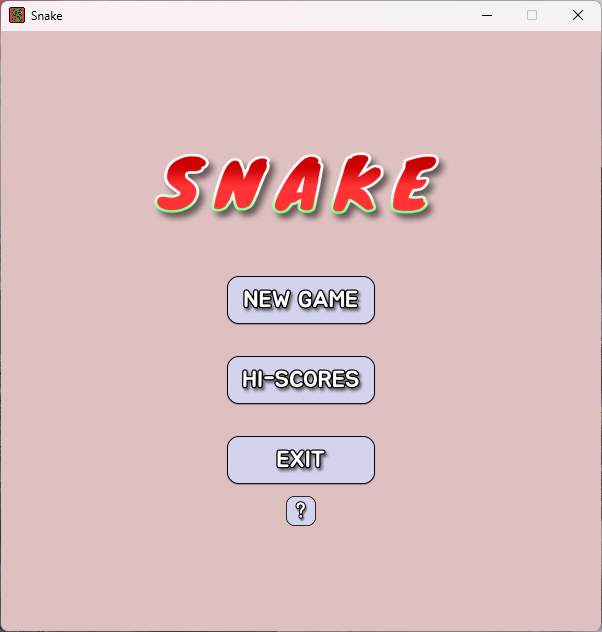
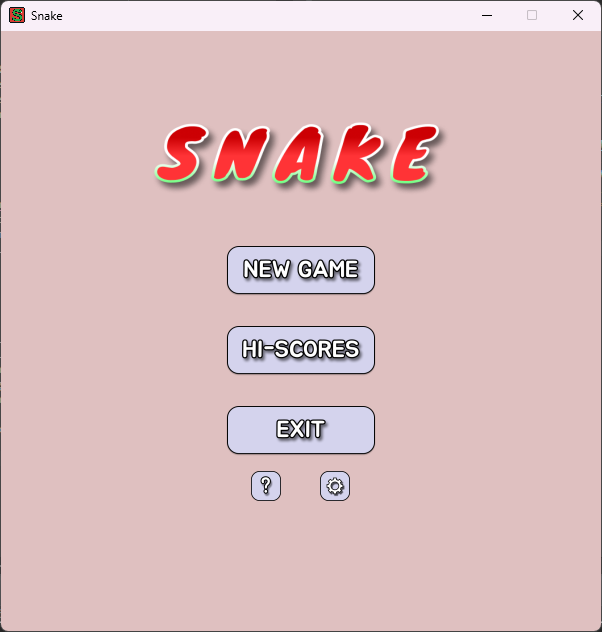
Added settings option

diff --git a/src/snake_game/MainMenuPanel.java b/src/snake_game/MainMenuPanel.java
@@ -2,8 +2,10 @@ package snake_game;
 
 import java.awt.BorderLayout;
 import java.awt.Color;
+import java.awt.FlowLayout;
 import java.awt.Image;
 import java.net.URL;
+
 import javax.swing.BorderFactory;
 import javax.swing.Box;
 import javax.swing.BoxLayout;
@@ -12,6 +14,7 @@ import javax.swing.JButton;
 import javax.swing.JLabel;
 import javax.swing.JOptionPane;
 import javax.swing.JPanel;
+import javax.swing.JSlider;
 import javax.swing.SwingConstants;
 
 /*
@@ -27,22 +30,29 @@ public class MainMenuPanel extends JPanel {
 	private JButton hiScoresBtn;
 	private JButton exitBtn;
 	private JButton helpBtn;
+	private JButton settingsBtn;
+	private JPanel smallBtnPanel;
 	private JPanel btnPanel;
 	private JLabel titleLbl;
-	
+
 	// Other fields
 	private static final long serialVersionUID = -2394769013522953624L;
+	private SnakeGame snakeGame;
 
 	public MainMenuPanel(SnakeGame snakeGame) {
 
 		// init misc fields
 		titleLbl = new JLabel(getScaledIcon("/asset/title.png", 300, 100), SwingConstants.CENTER);
+		smallBtnPanel = new JPanel(new FlowLayout());
+		smallBtnPanel.setOpaque(false);
+		this.snakeGame = snakeGame;
 
 		// init buttons
 		newGameBtn = new JButton();
 		hiScoresBtn = new JButton();
 		exitBtn = new JButton();
 		helpBtn = new JButton();
+		settingsBtn = new JButton();
 		btnPanel = new JPanel();
 		btnPanel.setLayout(new BoxLayout(btnPanel, BoxLayout.Y_AXIS));
 
@@ -67,6 +77,11 @@ public class MainMenuPanel extends JPanel {
 		helpBtn.setPressedIcon(getScaledIcon("/asset/help_pressed.png", 30, 30));
 		configBtn(helpBtn);
 
+		settingsBtn.setIcon(getScaledIcon("/asset/settings.png", 30, 30));
+		settingsBtn.setRolloverIcon(getScaledIcon("/asset/settings_rollover.png", 30, 30));
+		settingsBtn.setPressedIcon(getScaledIcon("/asset/settings_pressed.png", 30, 30));
+		configBtn(settingsBtn);
+
 		// settings for buttonpanel
 		btnPanel.setBorder(BorderFactory.createEmptyBorder(20,20,20,20));
 		btnPanel.setBackground(new Color(223, 192, 192));
@@ -88,15 +103,9 @@ public class MainMenuPanel extends JPanel {
 
 		exitBtn.addActionListener(e -> snakeGame.closeGame());
 
-		helpBtn.addActionListener(e -> {
-			JOptionPane.showMessageDialog(this, "Up: W/Up Arrow\n"
-					+ "Left: A/Left Arrow\n"
-					+ "Right: D/Right Arrow\n"
-					+ "Down: S/Down Arrow\n"
-					+ "Autoplay (greedy algorithm): P\n", 
-					"Controls", 
-					JOptionPane.INFORMATION_MESSAGE);
-		});
+		helpBtn.addActionListener(e -> showHelp());
+
+		settingsBtn.addActionListener(e -> showSettings());
 
 		// add buttons to button panel
 		btnPanel.add(Box.createVerticalGlue());
@@ -107,7 +116,12 @@ public class MainMenuPanel extends JPanel {
 		btnPanel.add(hiScoresBtn);
 		btnPanel.add(Box.createVerticalStrut(20));
 		btnPanel.add(exitBtn);
-		btnPanel.add(helpBtn);
+
+		smallBtnPanel.add(helpBtn);
+		smallBtnPanel.add(settingsBtn);
+
+		btnPanel.add(smallBtnPanel);
+
 		btnPanel.add(Box.createVerticalGlue());
 
 		// center assets
@@ -116,10 +130,75 @@ public class MainMenuPanel extends JPanel {
 		hiScoresBtn.setAlignmentX(CENTER_ALIGNMENT);
 		exitBtn.setAlignmentX(CENTER_ALIGNMENT);
 		helpBtn.setAlignmentX(CENTER_ALIGNMENT);
+		settingsBtn.setAlignmentX(CENTER_ALIGNMENT);
 
 		// add button panel to main menu panel
 		setLayout(new BorderLayout());
 		add(btnPanel, BorderLayout.CENTER);
+	}
+
+	public void showHelp() {
+		JOptionPane.showMessageDialog(this, "Up: W/Up Arrow\n"
+				+ "Left: A/Left Arrow\n"
+				+ "Right: D/Right Arrow\n"
+				+ "Down: S/Down Arrow\n"
+				+ "Autoplay (greedy algorithm): P\n", 
+				"Controls", 
+				JOptionPane.INFORMATION_MESSAGE);
+	}
+
+	public void showSettings() {
+		
+		// window size
+		JPanel winSize = new JPanel();
+		JSlider winSizeSlider = new JSlider(JSlider.HORIZONTAL, 12, 30, Settings.getCellSize());
+		JLabel winSizeLabel = new JLabel("Window Size:");
+		winSizeSlider.setPaintTicks(true);
+		winSizeSlider.setMajorTickSpacing(3);
+		winSizeSlider.setMinorTickSpacing(1);
+		winSizeSlider.setPaintLabels(true);
+		winSize.add(winSizeLabel);
+		winSize.add(winSizeSlider);
+
+		// snake speed
+		JPanel gameSpd = new JPanel();
+		JSlider gameSpdSlider = new JSlider(JSlider.HORIZONTAL, 12, 25, Const.DEFAULT_FPS);
+		JLabel gameSpdLabel = new JLabel("Game Speed (FPS):");
+		gameSpdSlider.setPaintTicks(true);
+		gameSpdSlider.setMajorTickSpacing(3);
+		gameSpdSlider.setMinorTickSpacing(1);
+		gameSpdSlider.setPaintLabels(true);
+		gameSpd.add(gameSpdLabel);
+		gameSpd.add(gameSpdSlider);
+		
+		// panel to hold both sliders
+		JPanel settingsPanel = new JPanel();
+		settingsPanel.setLayout(new BoxLayout(settingsPanel, BoxLayout.Y_AXIS));
+		settingsPanel.add(Box.createVerticalGlue());
+		settingsPanel.add(winSize);
+		settingsPanel.add(Box.createVerticalStrut(10));
+		settingsPanel.add(gameSpd);
+		settingsPanel.add(Box.createVerticalGlue());
+		
+		// listeners for sliders
+		winSizeSlider.addChangeListener(e -> onWindowSliderChanged(winSizeSlider.getValue()));
+		
+		gameSpdSlider.addChangeListener(e -> onGameSpeedSliderChanged(gameSpdSlider.getValue()));
+		
+		JOptionPane.showMessageDialog(this,
+				settingsPanel,
+				"Settings",
+				JOptionPane.PLAIN_MESSAGE);
+	}
+	
+	public void onGameSpeedSliderChanged(int newSpeed) {
+		System.out.println("Game speed slider value: " + newSpeed);
+		snakeGame.handleGameSpeedChanged(newSpeed);
+	}
+	
+	public void onWindowSliderChanged(int newSize) {
+		System.out.println("Window size slider value: " + newSize);
+		snakeGame.handleResizeWindow(newSize);
 	}
 
 	private ImageIcon getScaledIcon(String path, int x, int y) {

diff --git a/src/snake_game/GamePanel.java b/src/snake_game/GamePanel.java
@@ -1,12 +1,10 @@
 package snake_game;
 
-import static snake_game.Const.CELL_SIZE;
-import static snake_game.Const.DELAY;
+import static snake_game.Const.DEFAULT_DELAY;
 import static snake_game.Const.NUM_COLS;
 import static snake_game.Const.NUM_ROWS;
 import static snake_game.Const.SNAKE_START_COL;
 import static snake_game.Const.SNAKE_START_ROW;
-
 import java.awt.Color;
 import java.awt.Dimension;
 import java.awt.Graphics;
@@ -26,7 +24,6 @@ import java.util.LinkedList;
 import java.util.List;
 import java.util.Map;
 import java.util.Random;
-
 import javax.sound.sampled.AudioInputStream;
 import javax.sound.sampled.AudioSystem;
 import javax.sound.sampled.Clip;
@@ -42,7 +39,7 @@ import javax.swing.Timer;
 
 public class GamePanel extends JPanel {
 
-	// Gaamestate-specific fields
+	// Gamestate-specific fields
 	private Cell[][] gameArea;
 	private boolean isGameOver;
 	private int foodEaten;
@@ -64,6 +61,7 @@ public class GamePanel extends JPanel {
 	private static final long serialVersionUID = -2969235666770895319L;
 	private SnakeGame snakeGame;
 	private Map<String, Integer> hiScores;
+	private int delay;
 
 	public GamePanel(SnakeGame snakeGame) {
 
@@ -71,9 +69,11 @@ public class GamePanel extends JPanel {
 		this.snakeGame = snakeGame;
 		hiScores = new HashMap<>();
 		readHiScores(); // load the hiscores from hiscores.txt, if it exists
+		delay = DEFAULT_DELAY;
 
 		// jframe settings
-		setPreferredSize(new Dimension(NUM_COLS * CELL_SIZE, NUM_ROWS * CELL_SIZE));
+		int cellSize = Settings.getCellSize();
+		setPreferredSize(new Dimension(NUM_COLS * cellSize, NUM_ROWS * cellSize));
 		setFocusable(true);
 		requestFocusInWindow();
 		gameArea = new Cell[NUM_ROWS][NUM_COLS];
@@ -94,7 +94,7 @@ public class GamePanel extends JPanel {
 		spawnFood();
 
 		// game loop
-		timer = new Timer(DELAY, e -> {
+		timer = new Timer(delay, e -> {
 
 			if (autoPlay)
 				moveTowardFood();
@@ -131,6 +131,13 @@ public class GamePanel extends JPanel {
 				}
 			}
 		});
+	}
+
+	public void resizeWindow(int newCellSize) {
+		Settings.setCellSize(newCellSize);
+		setPreferredSize(new Dimension(NUM_COLS * newCellSize, NUM_ROWS * newCellSize));
+		revalidate();
+		repaint();
 	}
 
 	public void startGame(String playerName) {
@@ -348,9 +355,10 @@ public class GamePanel extends JPanel {
 					break;
 				}
 
-				int x = col * CELL_SIZE;
-				int y = row * CELL_SIZE;
-				g.fillRect(x, y, CELL_SIZE, CELL_SIZE);
+				int cellSize = Settings.getCellSize();
+				int x = col * cellSize;
+				int y = row * cellSize;
+				g.fillRect(x, y, cellSize, cellSize);
 			}
 		}			 
 	}
@@ -409,12 +417,12 @@ public class GamePanel extends JPanel {
 			return;
 		}
 	}
-	
+
 	public List<Map.Entry<String, Integer>> getSortedHiScores(Map<String, Integer> unsorted) {
 		List<Map.Entry<String, Integer>> sorted = new ArrayList<>(unsorted.entrySet());
-		
+
 		sorted.sort((a, b) -> b.getValue().compareTo(a.getValue()));;
-		
+
 		return sorted;
 	}
 
@@ -423,5 +431,10 @@ public class GamePanel extends JPanel {
 	public void setUserName(String name) { playerName = name; }
 
 	public Map<String, Integer> getHiScores() { return hiScores; }
+
+	public void setDelay(int delay) {
+		this.delay = delay;
+		timer.setDelay(delay);
+	}
 
 }

diff --git a/src/snake_game/Const.java b/src/snake_game/Const.java
@@ -10,13 +10,13 @@ public final class Const {
 	// prevent instantiation
 	private Const() {}
 
-	static final int CELL_SIZE = 15; // pixels
+	static final int DEFAULT_CELL_SIZE = 15; // pixels
 	static final int NUM_COLS = 40;
 	static final int NUM_ROWS = 40;
 	static final int MAX_FOOD = (NUM_COLS - 2) * (NUM_ROWS - 2);
 	static final int SNAKE_START_COL = NUM_COLS / 2;
 	static final int SNAKE_START_ROW = NUM_ROWS / 2;
-	static final int FPS = 18;
-	static final int DELAY = 1000 / FPS; // ms per frame
+	static final int DEFAULT_FPS = 18;
+	static final int DEFAULT_DELAY = 1000 / DEFAULT_FPS; // ms per frame
 
 }

diff --git a/src/snake_game/Settings.java b/src/snake_game/Settings.java
@@ -1,0 +1,17 @@
+package snake_game;
+
+/*
+ * Author: Cailean Bernard
+ * Contents: 
+ */
+
+public class Settings {
+	
+	private static int cellSize = Const.DEFAULT_CELL_SIZE;
+	private static int gameSpeed = Const.DEFAULT_FPS;
+
+	public static int getCellSize() { return cellSize; }
+	public static int getSnakeSpeed() { return gameSpeed; }
+	public static void setCellSize(int newSize) { cellSize = newSize; }
+	
+}

diff --git a/src/snake_game/SnakeGame.java b/src/snake_game/SnakeGame.java
@@ -68,6 +68,15 @@ public class SnakeGame {
 	public void closeGame() {
 		frame.dispose();
 	}
+	
+	public void handleResizeWindow(int newSize) {
+		gamePanel.resizeWindow(newSize);
+		frame.pack();
+	}
+	
+	public void handleGameSpeedChanged(int newSpeed) {
+		gamePanel.setDelay(1000 / newSpeed);
+	}
 
 	public void manageHiScores() {
 		Map<String, Integer> scores = gamePanel.getHiScores();

diff --git a/src/snake_game/Main.java b/src/snake_game/Main.java
@@ -9,7 +9,6 @@ public class Main {
 
 	public static void main(String[] args) {
 
-		//SwingUtilities.invokeLater(() -> new SnakeGame());
 		new SnakeGame();
 	}
 

diff --git a/README.md b/README.md
@@ -21,3 +21,17 @@ The game comes with a very rudimentary (and greedy) pathfinding algorithm. To to
 The snake will determine the direction of the food based on its x and y coordinates and change its direction accordingly.
 Due to the simplicity of the current version of this algorithm, the snake will not take measures to avoid colliding with itself,
 although in the future I plan to write versions of this algorithm using A* and Dijkstra's algorithm that can also be toggled.
+
+------
+
+Settings:
+
+The game window size and game speed can both be changed by clicking the gear icon from the main menu.
+The gameplay area is comprised of a grid of cells, each one with a default size (in pixels), along with
+a fixed number of rows and columns. The amount of space the game takes up in the screen is determined by
+multiplying the cell size by the number of columns/rows. Changing the game window size only changes the
+cell size in pixels, which changes the number of pixels the game occupies on the screen.
+
+Changing the game speed modifies the FPS (frames per second) of the game, which changes the calculation
+that the internal timer uses. The timer runs on a delay which is determined by 1000 / FPS, the default
+being 18. Higher FPS = more fluid (and faster) gameplay.
